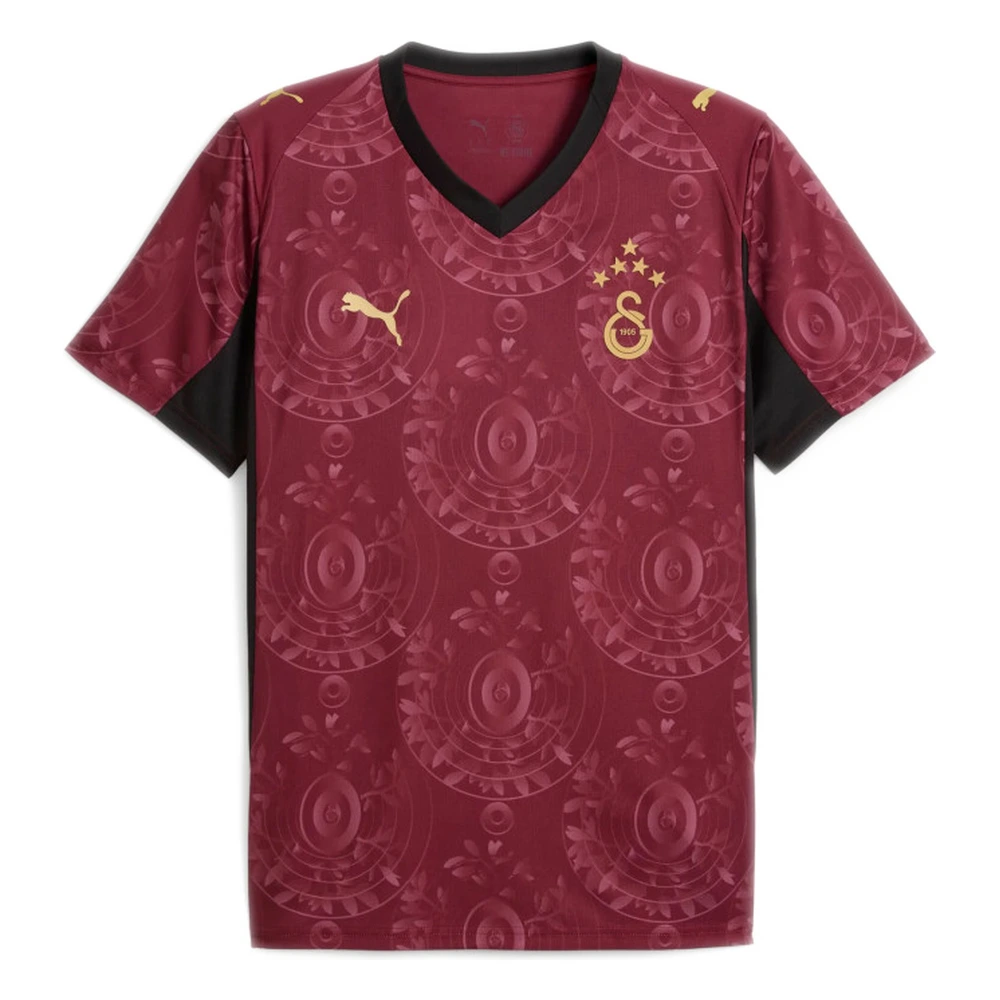
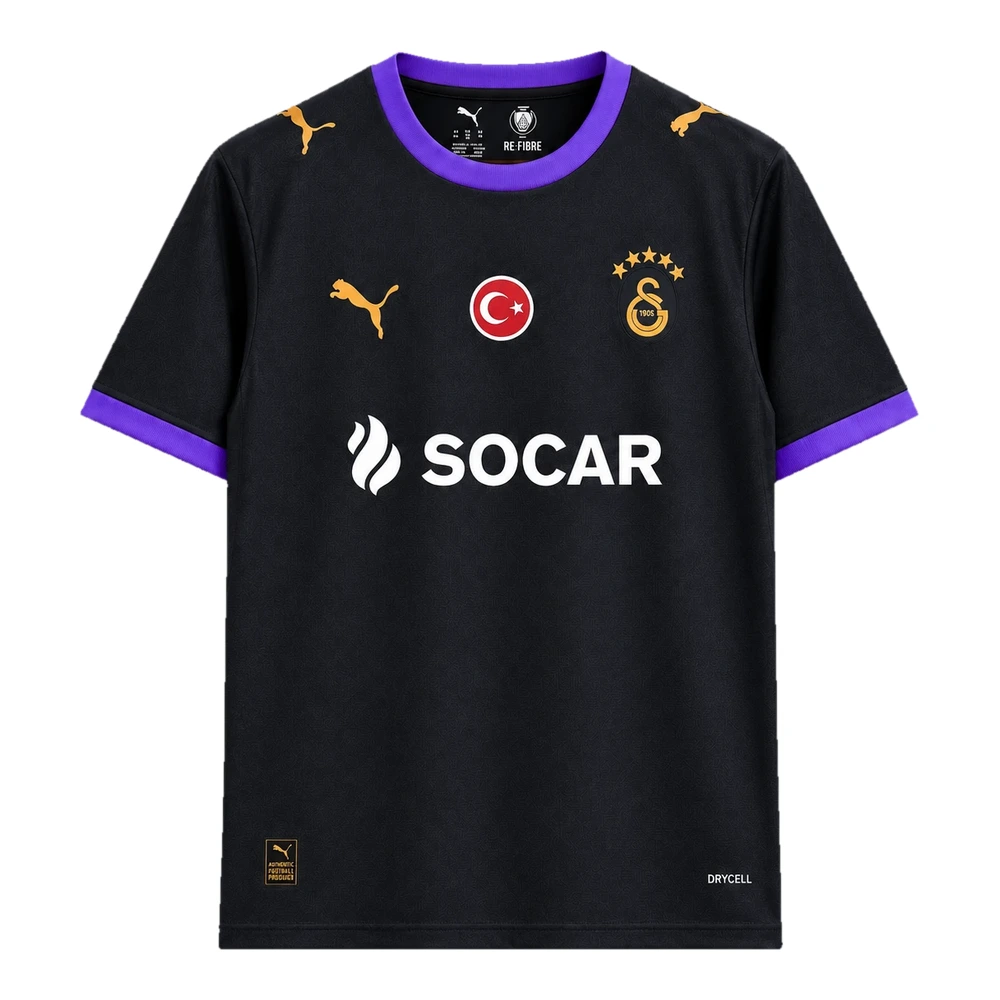
Remplace le maillot Galatasaray Third 2025-26 (noir Puma Socar)

diff --git a/index.html b/index.html
@@ -1627,7 +1627,7 @@ const products = [
   { id:570, club:'Palerme',                name:'Maillot Domicile',  season:'2025-26', league:'2ème Division', subLeague:'Italie — Serie B', type:'standard', emoji:'👕', mainColor:'#F7A8C4', accentColor:'#1A1A1A', flocageColor:'#1A1A1A', frontImage:'images/palerme-home-2526-1.webp', carouselImages:['images/palerme-home-2526-1.webp','images/palerme-home-2526-2.webp'] },
   { id:571, club:'Palerme',                name:'Maillot Extérieur', season:'2025-26', league:'2ème Division', subLeague:'Italie — Serie B', type:'standard', emoji:'👕', mainColor:'#131B3A', accentColor:'#F7A8C4', flocageColor:'#F7A8C4', frontImage:'images/palerme-away-2526-1.webp', carouselImages:['images/palerme-away-2526-1.webp','images/palerme-away-2526-2.webp'] },
   { id:572, club:'Real Sociedad',          name:'Maillot Domicile',  season:'2025-26', league:'Liga',          type:'standard', emoji:'👕', mainColor:'#1E5FBF', accentColor:'#FFFFFF', stripeColor:'#FFFFFF', flocageColor:'#111111', frontImage:'images/realsociedad-home-2526-1.webp', carouselImages:['images/realsociedad-home-2526-1.webp','images/realsociedad-home-2526-2.webp'] },
-  { id:573, club:'Galatasaray',            name:'Maillot Third',     season:'2025-26', league:'Reste du monde', subLeague:'Turquie — Süper Lig', type:'standard', emoji:'👕', mainColor:'#6E1423', accentColor:'#1A1A1A', flocageColor:'#D4AF37', frontImage:'images/galatasaray-3rd-2526-1.webp', carouselImages:['images/galatasaray-3rd-2526-1.webp','images/galatasaray-3rd-2526-2.webp'] },
+  { id:573, club:'Galatasaray',            name:'Maillot Third',     season:'2025-26', league:'Reste du monde', subLeague:'Turquie — Süper Lig', type:'standard', emoji:'👕', mainColor:'#111111', accentColor:'#6E1FB0', flocageColor:'#FFFFFF', frontImage:'images/galatasaray-3rd-2526-1.webp', carouselImages:['images/galatasaray-3rd-2526-1.webp','images/galatasaray-3rd-2526-2.webp'] },
   { id:574, club:'Boca Juniors',           name:'Maillot Extérieur', season:'2025-26', league:'Reste du monde', subLeague:'Argentine — Primera División', type:'standard', emoji:'👕', mainColor:'#E0C24B', accentColor:'#1A2A5E', flocageColor:'#1A2A5E', frontImage:'images/boca-away-2526-1.webp', carouselImages:['images/boca-away-2526-1.webp','images/boca-away-2526-2.webp'] },
   { id:575, club:'Wydad AC',               name:'Maillot Third',     season:'2025-26', league:'Reste du monde', subLeague:'Maroc — Botola Pro', type:'standard', emoji:'👕', mainColor:'#1670A0', accentColor:'#FFFFFF', flocageColor:'#FFFFFF', frontImage:'images/wydad-3rd-2526-1.webp', carouselImages:['images/wydad-3rd-2526-1.webp','images/wydad-3rd-2526-2.webp'] },
   { id:576, club:'Osasuna',                name:'Maillot Third',     season:'2025-26', league:'Liga', type:'standard', emoji:'👕', mainColor:'#FFFFFF', accentColor:'#8B1E3F', flocageColor:'#1A2E5E', frontImage:'images/osasuna-3rd-2526-1.webp', carouselImages:['images/osasuna-3rd-2526-1.webp','images/osasuna-3rd-2526-2.webp'] },
